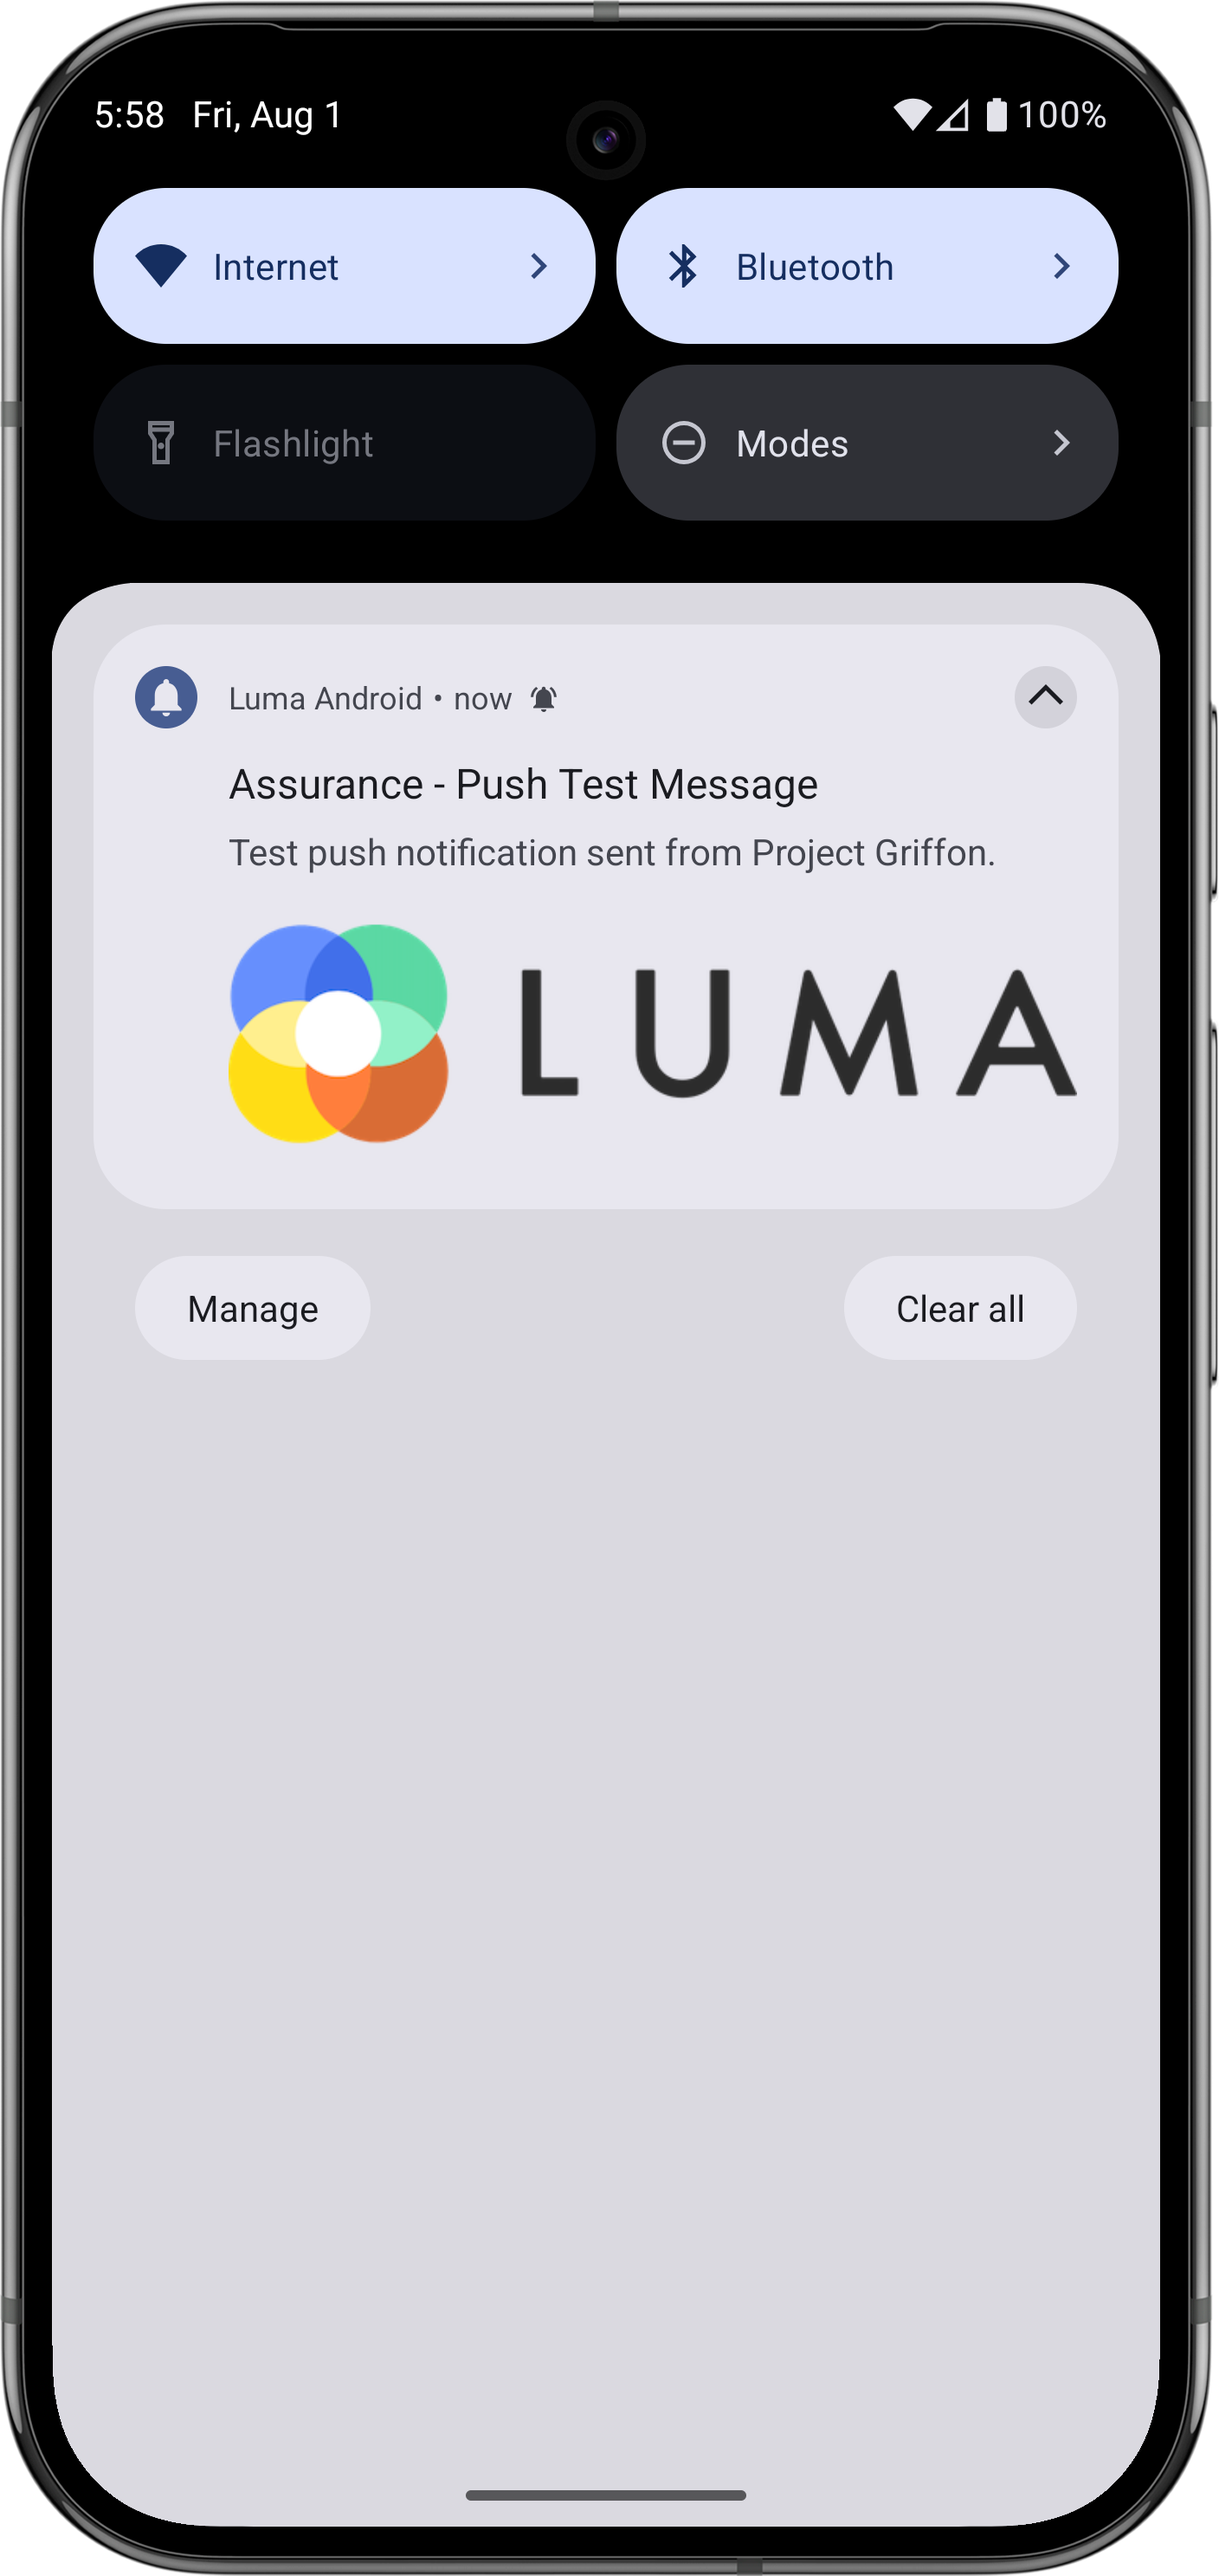
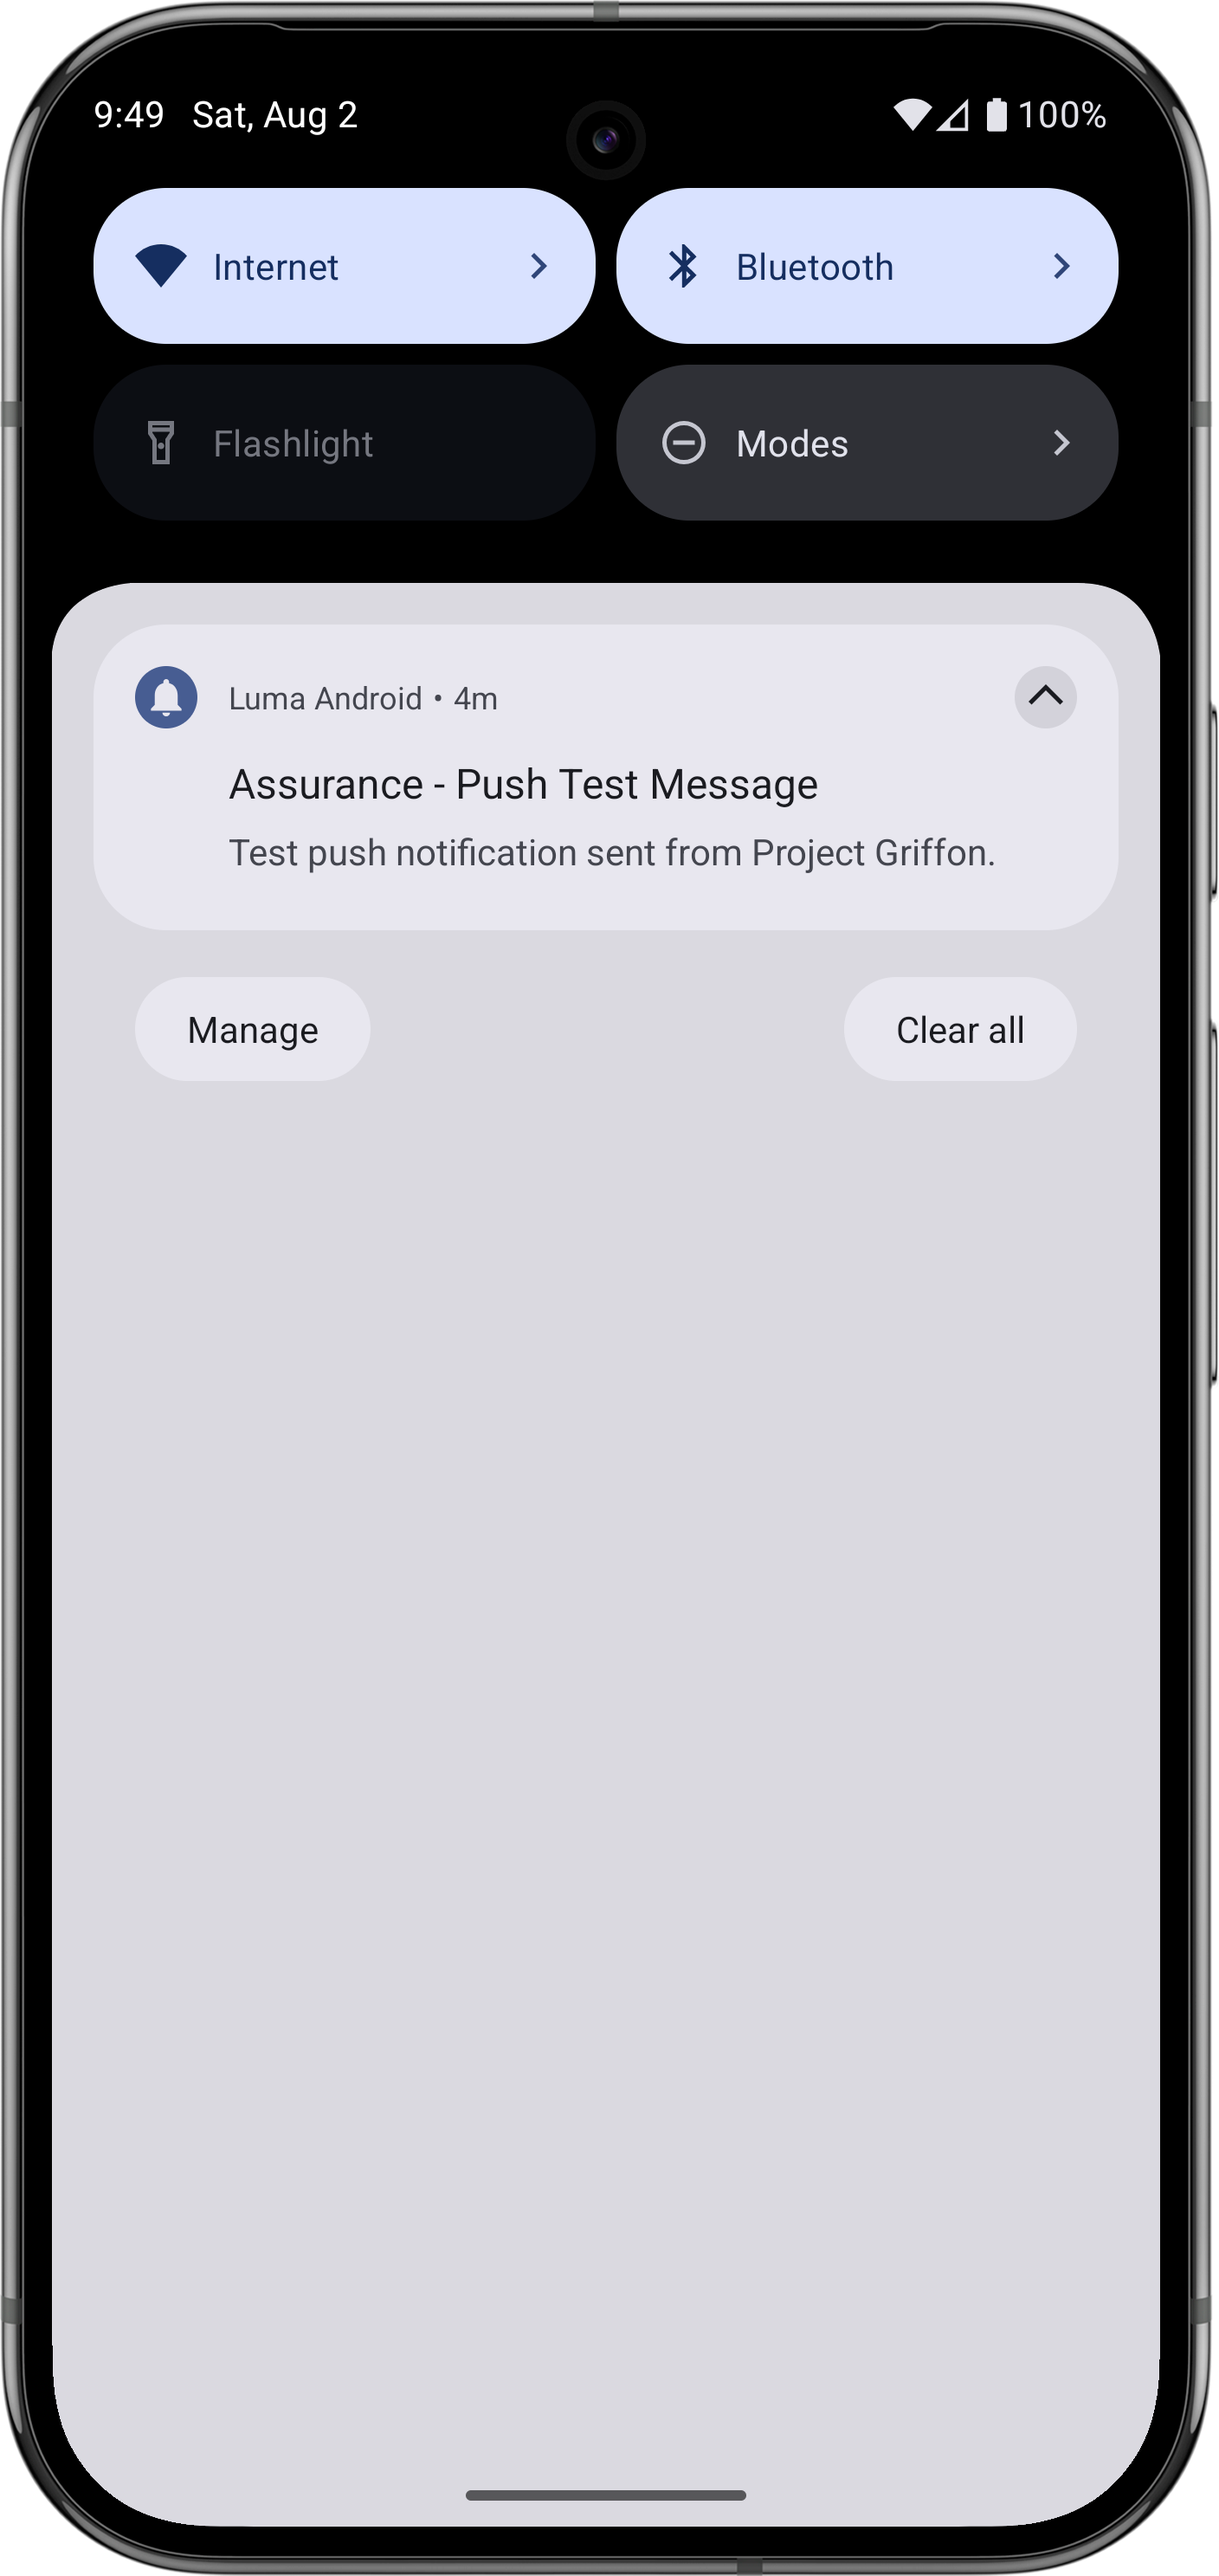
Updates

diff --git a/help/tutorial-mobile-sdk/journey-optimizer-push.md b/help/tutorial-mobile-sdk/journey-optimizer-push.md
@@ -234,9 +234,11 @@ For your app to work with Journey Optimizer, you must update your tag property.
 1. Confirm that you aren't getting any errors.
     ![validate](assets/push-validate-confirm.png)
 1. Select the **[!UICONTROL Send Test Push]** tab.
-1. (optional) Change the default details for **[!UICONTROL Title]** and **[!UICONTROL Body]** and ensure you provide all parameters that your app expects, like **[!UICONTROL Rich Media]** > **[!UICONTROL Image]**, or a **[!UICONTROL Advance]**d > **[!UICONTROL Notification Channel]** (required for Android, for example `LUMA_CHANNEL_ID`).
+1. (optional) Change the default details for **[!UICONTROL Title]** and **[!UICONTROL Body]** and ensure you provide all parameters that your app expects, like **[!UICONTROL Advanced]** > **[!UICONTROL Notification Channel]** (required for Android, for example `LUMA_CHANNEL_ID`).
 1. Select ![Bug](https://spectrum.adobe.com/static/icons/workflow_18/Smock_Bug_18_N.svg) **[!UICONTROL Send Test Push Notification]**.
 1. Check the **[!UICONTROL Test Results]**.
+
+   ![Test push notifications from Assurance](assets/test-push.png)
 1. You should see the test push notification appear in your app.
    
    >[!BEGINTABS]
@@ -253,7 +255,10 @@ For your app to work with Journey Optimizer, you must update your tag property.
 
 ## Signing
 
-Signing the Luma app is needed to send push notifications and **requires a paid Apple developer account**.
+>[!IMPORTANT]
+>
+>Signing an iOS app is needed to send push notifications on iOS and **requires a paid Apple developer account**. You don't need to sign an Android app to send push notifications.
+
 
 To update the signing for your app:
 
@@ -275,7 +280,11 @@ To update the signing for your app:
 
 >[!IMPORTANT]
 >
->To implement and test push notification in an iOS app, you must have a **paid** Apple developer account. If you do not have a paid Apple developer account, you can skip the remainder of this lesson.
+>To implement and test push notification in an iOS app, you must have a **paid** Apple developer account.
+
+>[!BEGINTABS]
+
+>[!TAB iOS]
 
 1. In Xcode, select **[!DNL Luma]** from the **[!UICONTROL TARGETS]** list, select the **[!UICONTROL Signing & Capabilities]** tab, select the **[!UICONTROL + Capability]** button, then select **[!UICONTROL Push Notifications]**. This enables your app to receive push notifications.
 
@@ -288,6 +297,14 @@ To update the signing for your app:
 You should now have a push notification extension added to your app, similar to the screen below.
 
 ![Pusn nofitications extension](assets/xcode-signing-capabilities-pushnotifications.png)
+
+>[!TAB Android]
+
+The Android Studio project is already set up for push notifications. You do not need to take additional steps to enable the Android version of the Luma app for push notifications. See [About notifications](https://developer.android.com/develop/ui/views/notifications) for more information.
+
+Android push notifications require that you define a notification channel id, both in your app, and when sending a push notification. The channel notification id used in the Android Luma app is `LUMA_CHANNEL ID`.
+
+>[!ENDTABS]
 
 
 ## Implement Journey Optimizer in the app
